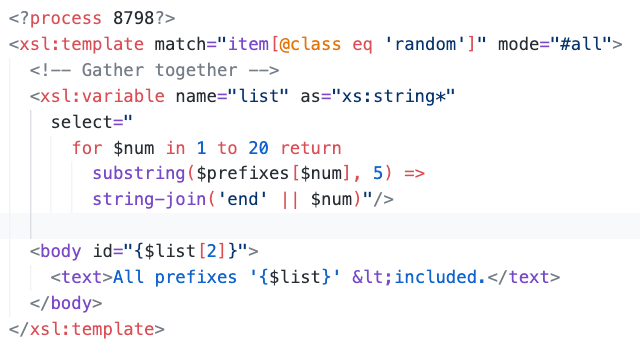
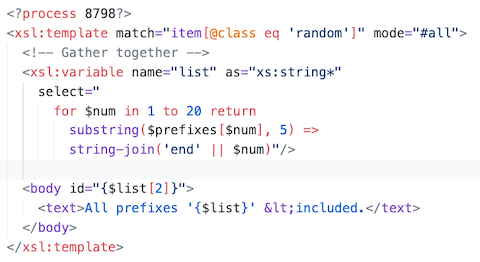
improve syntax highlight images

diff --git a/vscode-xslt-xpath/editing-xslt.html b/vscode-xslt-xpath/editing-xslt.html
@@ -88,8 +88,10 @@
 				covered on the <a href="editing.html">Editing XML</a> page. 
 				Help on navigating code in the editor is provided in the <a href="navigation.html">Code Navigation</a> page.</p>
 			<h3 id="highlighting">Syntax Highlighting</h3>
-			<em>Eva Dark Theme</em>
-			<img src="resources/dark-eva.png" class="scale-with-grid">			
+
+			<p class="caption"><em>Eva Dark Theme</em></p>
+			<img src="resources/dark-eva.png" class="scale-with-grid">		
+			
 			<p>For improved performance and precision, this extension eschews the default 
 				but <a href="https://github.com/microsoft/vscode/issues/77140">problematic TM Grammar</a>
 				and instead uses Visual Studio Code's
@@ -97,8 +99,10 @@
 				feature. For external <a href="https://code.visualstudio.com/docs/getstarted/themes">color themes</a> you should explicitly enable Semantic Highlighting. See
 				the <a href="settings.html">Settings</a> page for more information.
 			</p>
-			<em>Github Light Theme</em>
+
+			<p class="caption"><em>Github Light Theme</em></p>		
 			<img src="resources/light-github.png" class="scale-with-grid" style="border-style: solid; border-width: 1px">
+
 			<p>The extension provides syntax highlighting for XSLT instructions, XML Literal Result Elements, XML attributes, XML character references, CDATA sections 
 				and all tokens within XPath expressions. XPath expressions within Attribute Value Templates (AVTs) and 
 				Text Value Templates are syntax highlighted also.</p>

diff --git a/resources/custom.css b/resources/custom.css
@@ -37,6 +37,12 @@ code {
   font-family: Menlo, Monaco, Consolas, 'Courier New', monospace;
 }
 
+p.caption {
+  padding: 0 0 0 0; 
+  margin:0 0 0 0;
+  font-style: italic;
+}
+
 code.block {
   font-size: small;
   display: block;

diff --git a/vscode-xslt-xpath/resources/custom.css b/vscode-xslt-xpath/resources/custom.css
@@ -38,6 +38,12 @@ code {
   font-family: Menlo, Monaco, Consolas, 'Courier New', monospace;
 }
 
+p.caption {
+  padding: 0 0 0 0; 
+  margin:0 0 0 0;
+  font-style: italic;
+}
+
 code.block {
   font-size: small;
   display: block;
